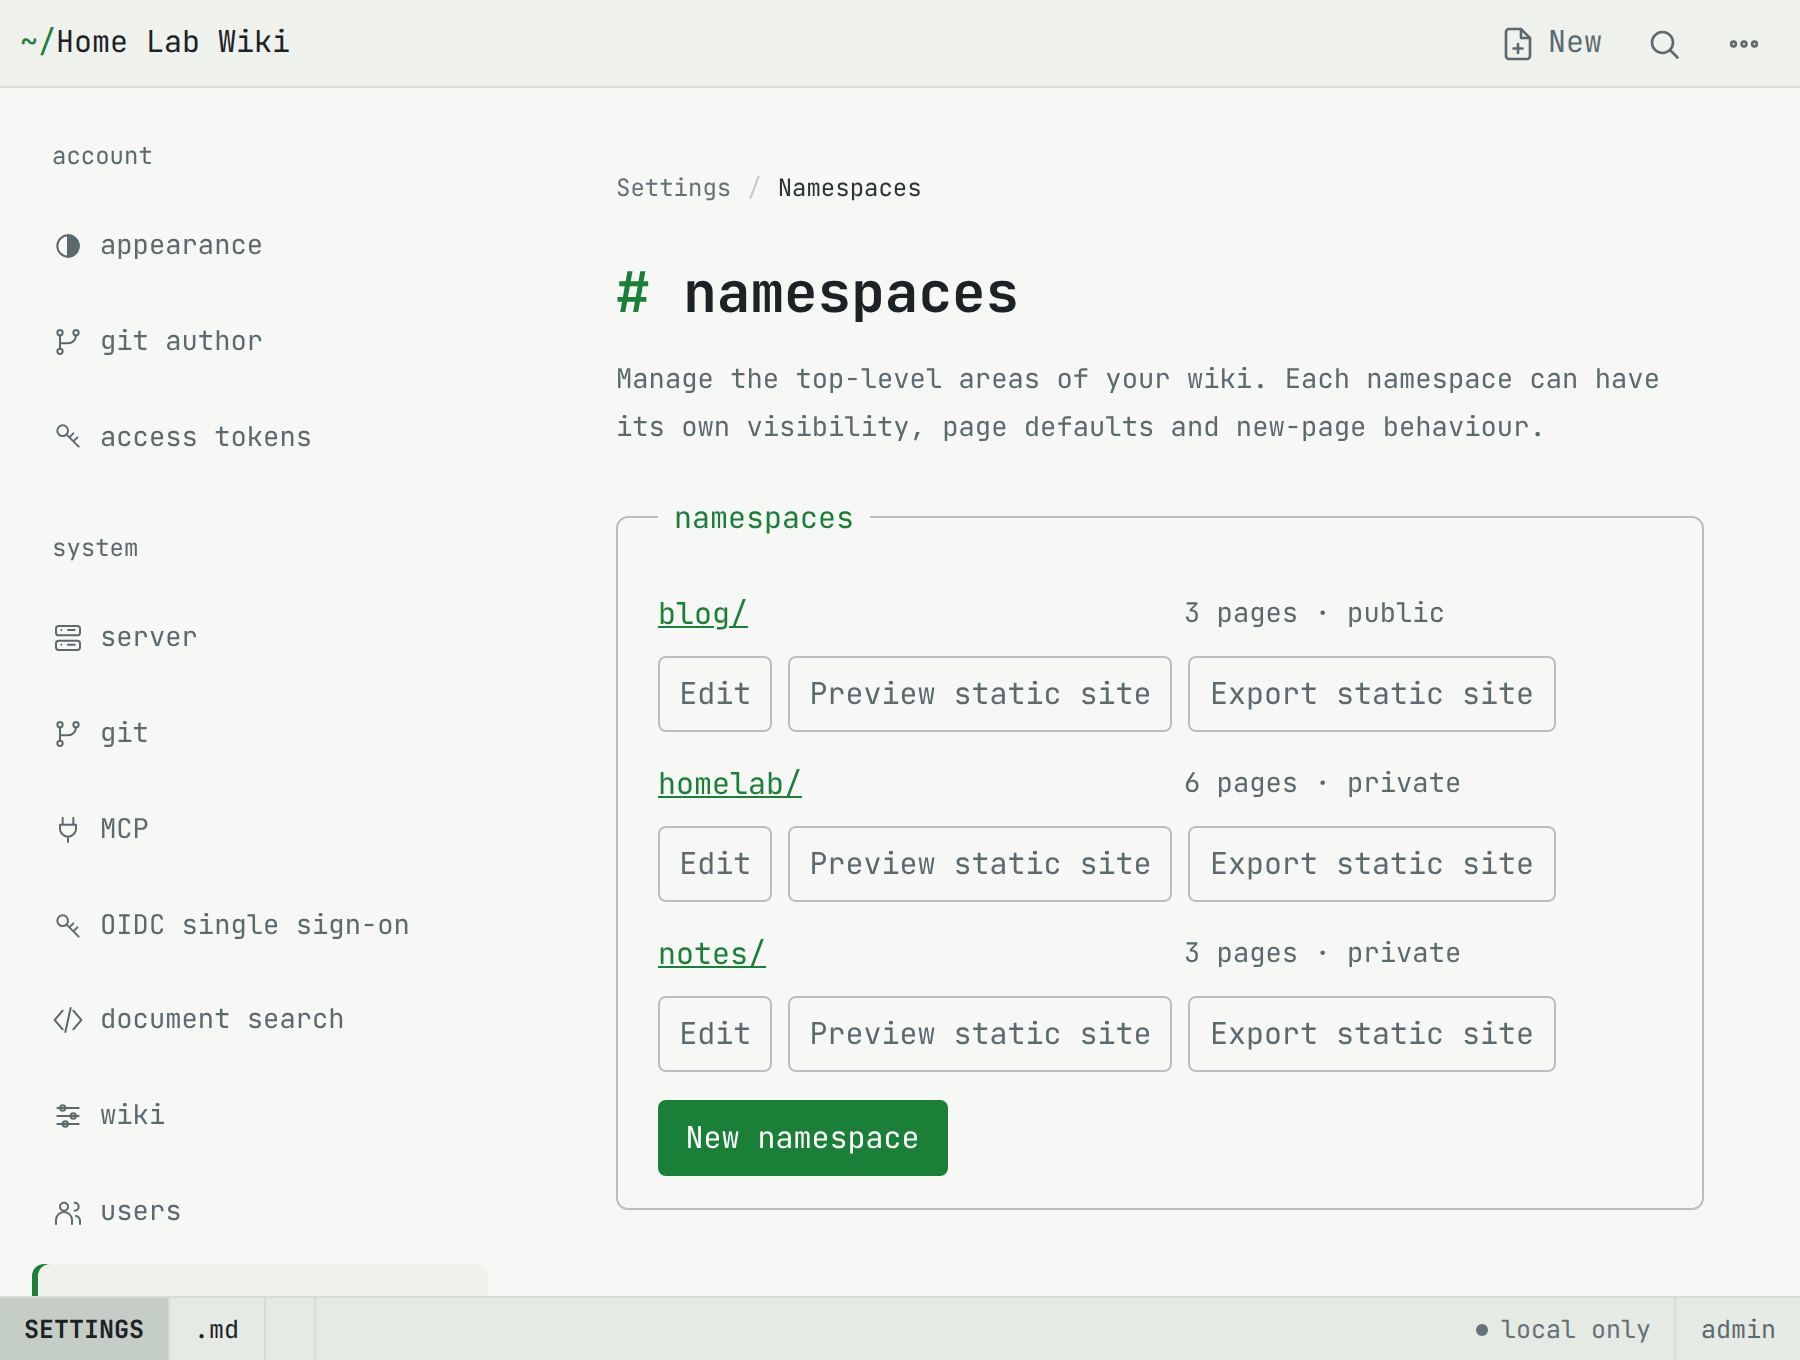
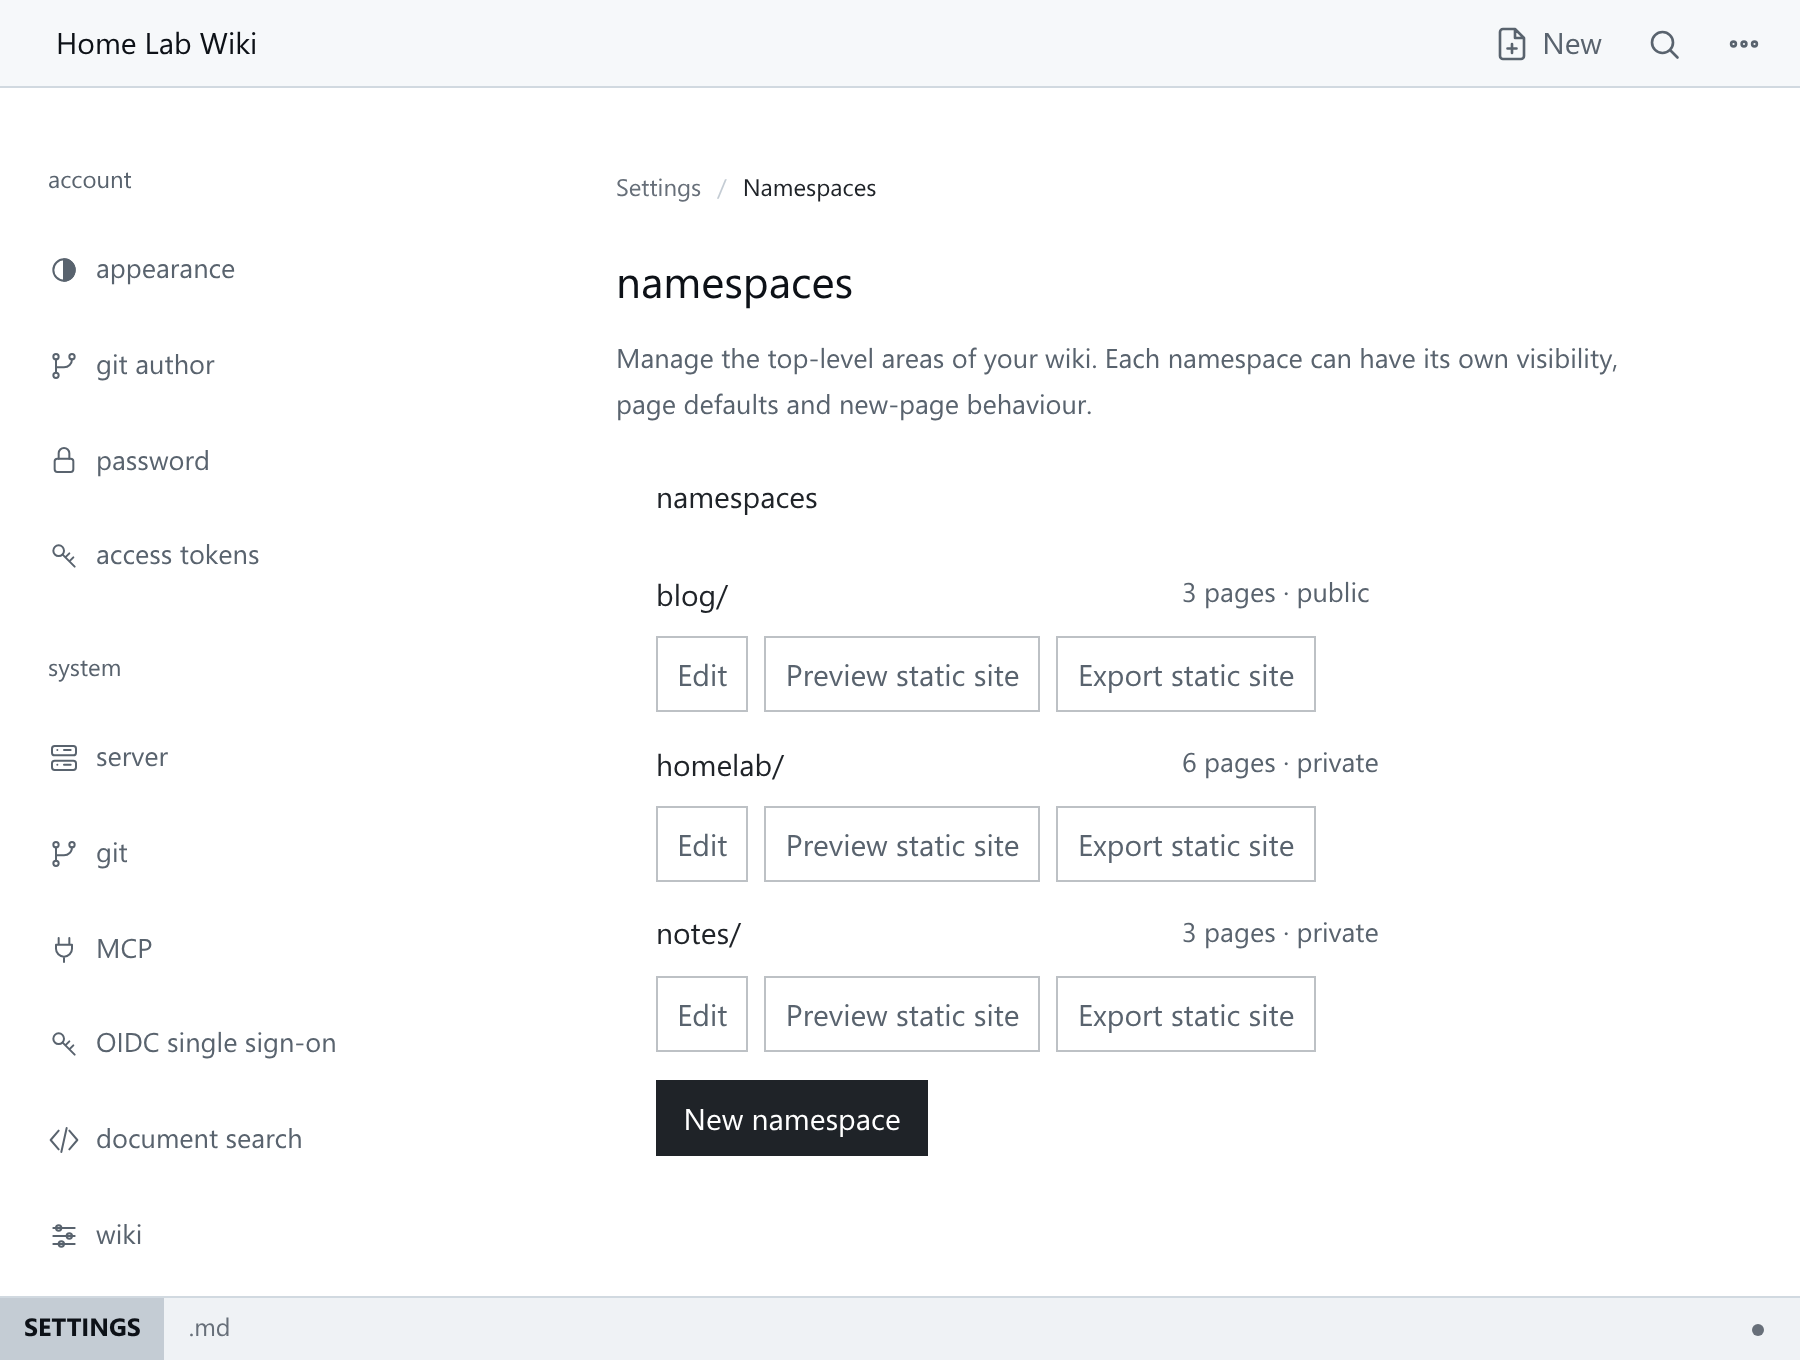
doc: update screenshots skin docs and tagline for bare default

diff --git a/holdmydocs/reference/skins-and-palettes.md b/holdmydocs/reference/skins-and-palettes.md
@@ -11,19 +11,17 @@ Choosing a skin resets the palette to its pairing and the fonts to the skin's ow
 
 | Skin | Look | Default palette |
 | --- | --- | --- |
-| `phosphor` | Terminal green, monospace, `#` markers; the page title types itself in and links invert on hover. The default. | phosphor |
-| `newsprint` | Broadsheet: a centred masthead between double rules, serif, justified columns, an italic lede with a drop cap. | solarized |
-| `journal` | Writing first: serif, paper grain, ruled lines with a margin line, blockquotes as side notes, taped images. | everforest |
-| `soft` | Rounded and low-contrast: warm sans, a floating top bar, window dots on code blocks, callout cards. | rosé pine |
-| `bare` | No borders, wide margins, a large tight title with faint section numbers. | one dark |
-
-The phosphor title animation is skipped when the device asks for reduced motion.
+| `bare` | The default. Plain sans, wide margins, no borders or markers. | neutral |
+| `phosphor` | Terminal green, monospace, `#` markers; links invert on hover. | phosphor |
+| `newsprint` | Broadsheet: a centred masthead between double rules, serif, pull quotes. | flexoki |
+| `journal` | Writing first: serif, paper grain, a wide reading measure. | everforest |
+| `soft` | Rounded and low-contrast: warm sans, a floating top bar, callout cards. | rosé pine |
 
 ![A fictional public blog in the newsprint skin, light mode](/_/attachments/holdmydocs/reference/skins-and-palettes/newsprint-light.png)
 
 ## Palettes
 
-Eleven palettes, each with light and dark variants: `phosphor`, `catppuccin`, `dracula`, `everforest`, `gruvbox`, `monokai`, `nord`, `one dark`, `rosé pine`, `solarized`, `tokyo night`.
+Ten palettes, each with light and dark variants: `neutral`, `phosphor`, `dracula`, `everforest`, `flexoki`, `gruvbox`, `nord`, `rosé pine`, `solarized`, `tokyo night`.
 
 ## Light, dark, and system mode
 

diff --git a/holdmydocs/reference/namespace-configuration.md b/holdmydocs/reference/namespace-configuration.md
@@ -35,6 +35,22 @@ export:
 - `tree` lists page or folder paths in order. Unlisted siblings follow alphabetically. Live sidebar and static exports use the same order.
 - `new` sets the hidden template and slug pattern for quick-create.
 
+Widgets you can list in `widgets`:
+
+| Widget | Heading | Shows |
+| --- | --- | --- |
+| `pages` | recently viewed | Pages you opened recently in this namespace, in this browser, with your palette pins first. |
+| `namespaces` | namespaces | Every namespace with its page count. |
+| `pinned` | pinned | Pages with `pin: true`. |
+| `tags` | tags | The five most used tags in this namespace, with a link to the rest. |
+| `log` | log | The last few commits to the current page. |
+| `health` | health | Missing links and orphaned pages, linking to the full report. |
+| `calendar` | | A month of daily pages, with entries highlighted. |
+| `writing-stats` | this month | Days written, streak and word count for this month. |
+| `page-meta` | | Tags, last editor and revision count, above the page. |
+| `backlinks` | linked from | Pages that link to this one, below the page. |
+| `prev-entries` | earlier | The daily entries just before this one, below the page. |
+
 <!-- generated:namespace -->
 
 | Key | Environment variable | Type and default | Accepted values | Restart | Description |

diff --git a/holdmydocs/reference/api.md b/holdmydocs/reference/api.md
@@ -32,11 +32,11 @@ curl -s -H "Authorization: Bearer hmd_your_token" \
 | `/_/api/pages/rename/{slug...}` | POST | write | Rename a page. |
 | `/_/api/pages/tags/{slug...}` | POST | write | Change page tags. |
 | `/_/api/pages/revert/{slug...}` | POST | write | Restore an earlier revision. |
-| `/_/api/namespaces` | POST | settings | Save a namespace configuration. |
-| `/_/api/namespaces/reset` | POST | settings | Restore namespace defaults. |
-| `/_/api/namespaces/delete` | POST | settings | Delete a namespace and every file beneath it. |
+| `/_/api/namespaces` | POST | admin | Save a namespace configuration. |
+| `/_/api/namespaces/reset` | POST | admin | Restore namespace defaults. |
+| `/_/api/namespaces/delete` | POST | admin | Delete a namespace and every file beneath it. |
 | `/_/api/settings/*` | POST | varies | Save settings, users and tokens (see [[Route Reference]]). |
-| `/_/api/setup` | POST | settings | Complete first-run setup. |
+| `/_/api/setup` | POST | admin | Complete first-run setup. |
 | `/_/api/preview/{slug...}` | GET | read | Page title, snippet, tags and age. |
 | `/_/api/preview` | POST | write | Render Markdown to HTML. |
 | `/_/api/attachments/{slug...}` | POST | write | Upload an attachment. |

diff --git a/holdmydocs/writing/namespaces.md b/holdmydocs/writing/namespaces.md
@@ -22,7 +22,7 @@ Open **Settings → Namespaces** and click **Edit** next to it.
 | General | Description, homepage (**index page**), page order in the sidebar and quick-create template |
 | Published | Whether anyone can read it without signing in, how it looks to them and its link preview image |
 | Static site | Settings for exporting it as a website, see [[Static Export]] |
-| Widgets | What appears in the sidebar |
+| Widgets | What appears in the sidebar, see [[Namespace Configuration Reference]] |
 
 **Reset namespace settings** puts these back to the defaults and keeps every page.
 

diff --git a/holdmydocs/integrations/mcp.md b/holdmydocs/integrations/mcp.md
@@ -55,7 +55,7 @@ Ask the assistant to list your namespaces to check the connection.
 | --- | --- |
 | read | List, read and search pages, follow backlinks, see recent changes, run the health report, read attachment text |
 | write | Create, edit and delete pages, upload attachments |
-| settings | Read and change namespace settings, in every namespace |
+| admin | Read and change namespace settings, in every namespace |
 
 - Write does not include read. Tick both for an assistant that edits.
 - Every change is a normal Git commit, so you can review and revert it in page history.

diff --git a/holdmydocs/index.md b/holdmydocs/index.md
@@ -3,7 +3,7 @@ title: Hold My Docs
 tags: hmd, documentation
 ---
 
-**A self-hosted wiki that keeps your Markdown and its full history in Git.**
+**A wiki that gets on with it.**
 
 ![A fictional HMD wiki on a desktop and phone](/_/attachments/holdmydocs/index/hero.png)
 
